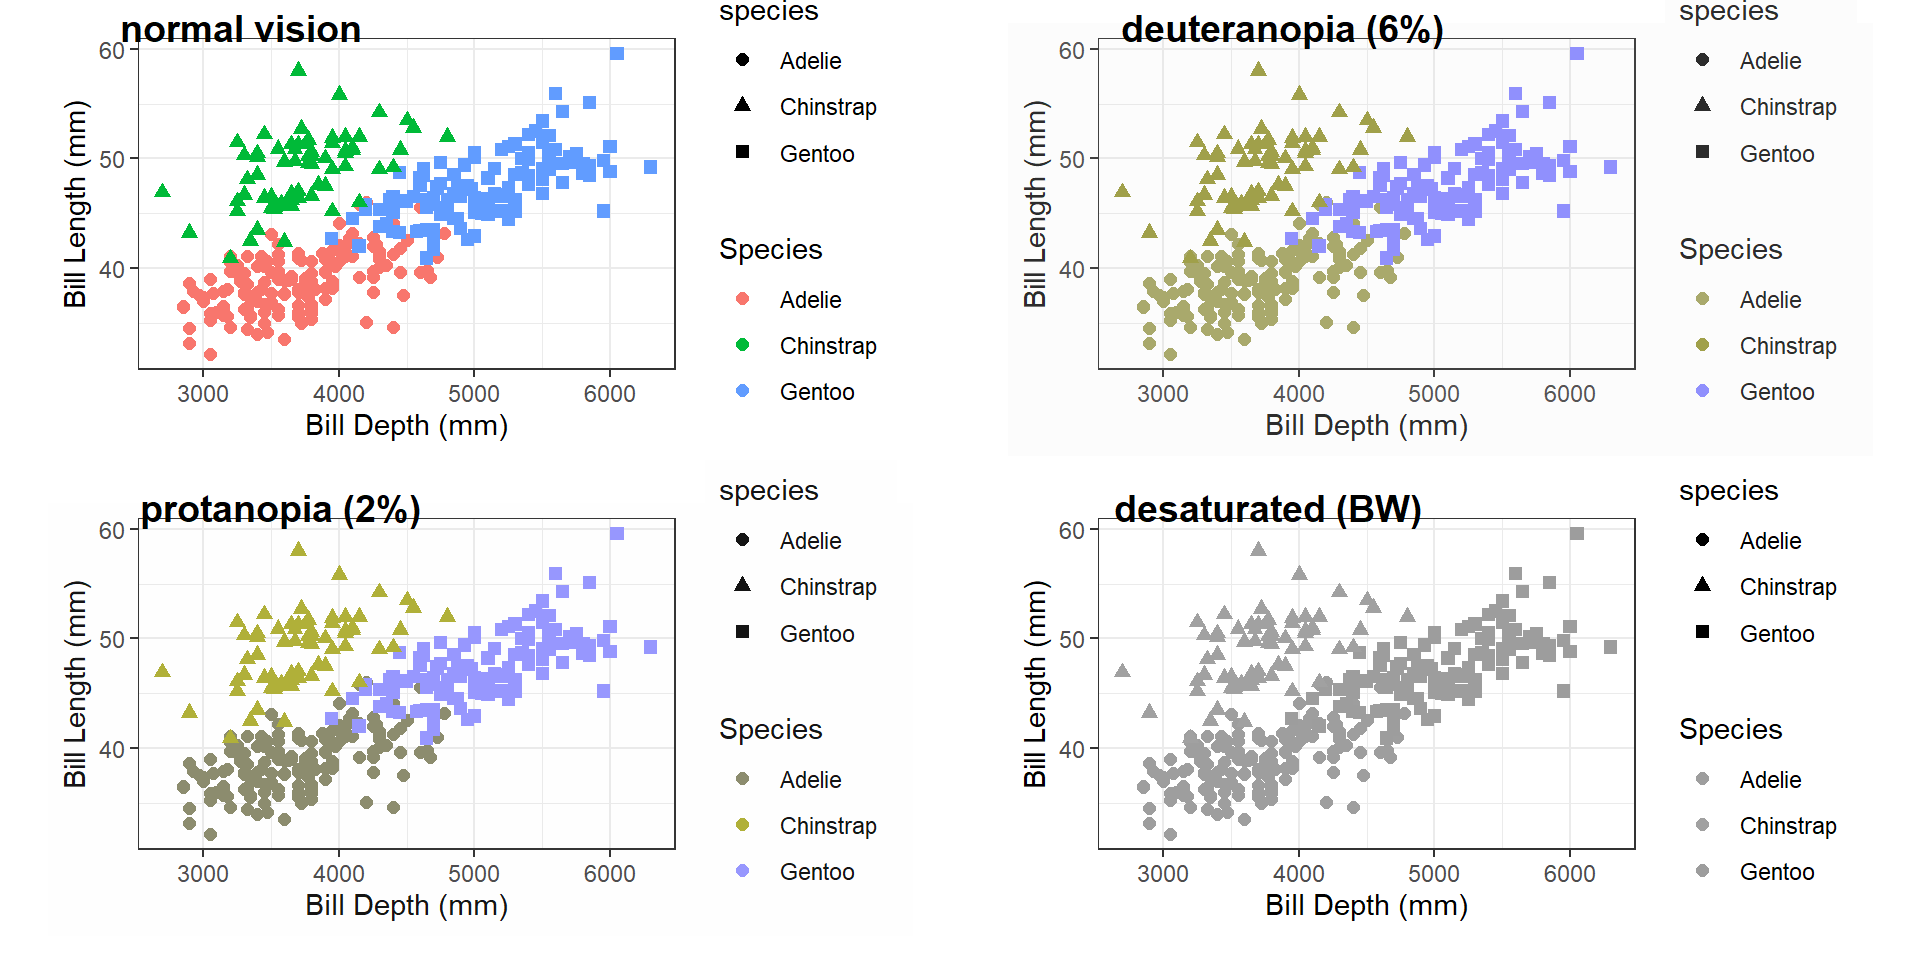
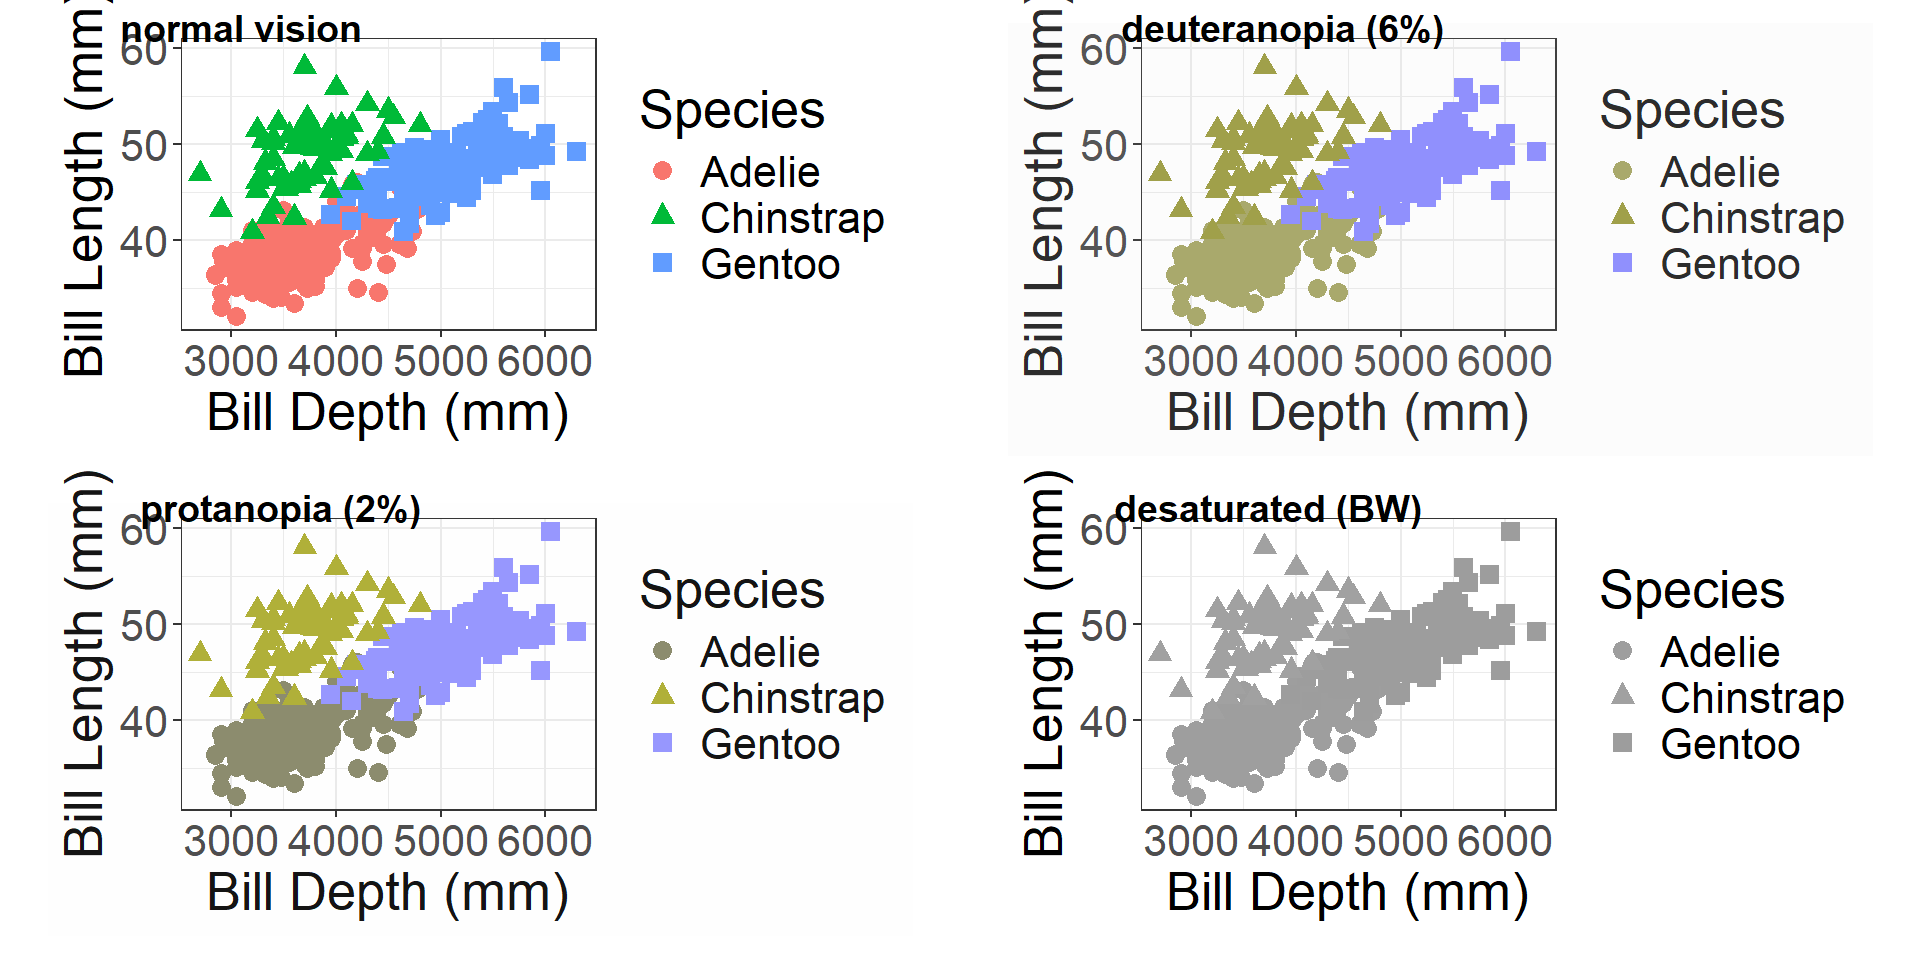
Added shape label and final plot

diff --git a/week-04/lec-04-data-viz-improvements.html b/week-04/lec-04-data-viz-improvements.html
@@ -495,9 +495,11 @@ Medina - CSU Channel Islands
 <span id="cb10-10"><a href="" aria-label="10"></a>  <span class="fu">labs</span>(</span>
 <span id="cb10-11"><a href="" aria-label="11"></a>    <span class="at">x =</span> <span class="st">"Bill Depth (mm)"</span>, </span>
 <span id="cb10-12"><a href="" aria-label="12"></a>    <span class="at">y =</span> <span class="st">"Bill Length (mm)"</span>,</span>
-<span id="cb10-13"><a href="" aria-label="13"></a>    <span class="at">color =</span> <span class="st">"Species"</span></span>
-<span id="cb10-14"><a href="" aria-label="14"></a>  ) <span class="sc">+</span></span>
-<span id="cb10-15"><a href="" aria-label="15"></a>  <span class="fu">geom_point</span>(<span class="at">size =</span> <span class="dv">2</span>) </span></code></pre></div><button title="Copy to Clipboard" class="code-copy-button"><i class="bi"></i></button></div>
+<span id="cb10-13"><a href="" aria-label="13"></a>    <span class="at">color =</span> <span class="st">"Species"</span>,</span>
+<span id="cb10-14"><a href="" aria-label="14"></a>    <span class="at">shape =</span> <span class="st">"Shape"</span></span>
+<span id="cb10-15"><a href="" aria-label="15"></a>  ) <span class="sc">+</span></span>
+<span id="cb10-16"><a href="" aria-label="16"></a>  <span class="fu">theme</span>(<span class="at">text =</span> <span class="fu">element_text</span>(<span class="at">size =</span> <span class="dv">20</span>)) <span class="sc">+</span></span>
+<span id="cb10-17"><a href="" aria-label="17"></a>  <span class="fu">geom_point</span>(<span class="at">size =</span> <span class="dv">3</span>)</span></code></pre></div><button title="Copy to Clipboard" class="code-copy-button"><i class="bi"></i></button></div>
 </div><div class="column">
 <div class="cell-output-display">
 <div>
@@ -522,13 +524,15 @@ Medina - CSU Channel Islands
 <span id="cb11-8"><a href="" aria-label="8"></a>      <span class="at">shape =</span> species</span>
 <span id="cb11-9"><a href="" aria-label="9"></a>    )</span>
 <span id="cb11-10"><a href="" aria-label="10"></a>  ) <span class="sc">+</span></span>
-<span id="cb11-11"><a href="" aria-label="11"></a>  <span class="fu">labs</span>(</span>
-<span id="cb11-12"><a href="" aria-label="12"></a>    <span class="at">x =</span> <span class="st">"Bill Depth (mm)"</span>, </span>
-<span id="cb11-13"><a href="" aria-label="13"></a>    <span class="at">y =</span> <span class="st">"Bill Length (mm)"</span>,</span>
-<span id="cb11-14"><a href="" aria-label="14"></a>    <span class="at">color =</span> <span class="st">"Species"</span></span>
-<span id="cb11-15"><a href="" aria-label="15"></a>  ) <span class="sc">+</span></span>
-<span id="cb11-16"><a href="" aria-label="16"></a>  <span class="fu">geom_point</span>(<span class="at">size =</span> <span class="dv">2</span>) <span class="sc">+</span></span>
-<span id="cb11-17"><a href="" aria-label="17"></a>  <span class="fu">theme_bw</span>()</span></code></pre></div><button title="Copy to Clipboard" class="code-copy-button"><i class="bi"></i></button></div>
+<span id="cb11-11"><a href="" aria-label="11"></a>  <span class="fu">geom_point</span>(<span class="at">size =</span> <span class="dv">3</span>) <span class="sc">+</span></span>
+<span id="cb11-12"><a href="" aria-label="12"></a>  <span class="fu">labs</span>(</span>
+<span id="cb11-13"><a href="" aria-label="13"></a>    <span class="at">x =</span> <span class="st">"Bill Depth (mm)"</span>, </span>
+<span id="cb11-14"><a href="" aria-label="14"></a>    <span class="at">y =</span> <span class="st">"Bill Length (mm)"</span>,</span>
+<span id="cb11-15"><a href="" aria-label="15"></a>    <span class="at">color =</span> <span class="st">"Species"</span>,</span>
+<span id="cb11-16"><a href="" aria-label="16"></a>    <span class="at">shape =</span> <span class="st">"Species"</span></span>
+<span id="cb11-17"><a href="" aria-label="17"></a>  ) <span class="sc">+</span></span>
+<span id="cb11-18"><a href="" aria-label="18"></a>  <span class="fu">theme_bw</span>() <span class="sc">+</span></span>
+<span id="cb11-19"><a href="" aria-label="19"></a>  <span class="fu">theme</span>(<span class="at">text =</span> <span class="fu">element_text</span>(<span class="at">size =</span> <span class="dv">20</span>))</span></code></pre></div><button title="Copy to Clipboard" class="code-copy-button"><i class="bi"></i></button></div>
 </div>
 <div class="fragment">
 <p>By storing the plot as an object named <code>bills_plot</code>, we will be able to use it in other functions.</p>
@@ -678,10 +682,44 @@ Medina - CSU Channel Islands
 <li><p><a href="https://www.cararthompson.com/talks/nhsr2023-level-up-workshop/">Level Up Your Plots: Using colour, annotations, text hiearchy and other tricks to make your data story stand out</a></p></li>
 <li><p><a href="https://evamaerey.github.io/ggplot_flipbook/ggplot_flipbook_xaringan.html#1">the ggplot flipbook</a></p></li>
 </ul>
-
 </div>
 </section>
-    </div>
+
+<section id="our-final-improved-plot" class="title-slide slide level1 center">
+<h1>Our final improved plot</h1>
+<div class="cell">
+<div class="code-copy-outer-scaffold"><div class="sourceCode cell-code" id="cb20"><pre class="sourceCode numberSource r number-lines code-with-copy"><code class="sourceCode r"><span id="cb20-1"><a href="" aria-label="1"></a><span class="fu">ggplot</span>(</span>
+<span id="cb20-2"><a href="" aria-label="2"></a>    penguins, </span>
+<span id="cb20-3"><a href="" aria-label="3"></a>    <span class="fu">aes</span>(</span>
+<span id="cb20-4"><a href="" aria-label="4"></a>      <span class="at">x =</span> body_mass, </span>
+<span id="cb20-5"><a href="" aria-label="5"></a>      <span class="at">y =</span> bill_len, </span>
+<span id="cb20-6"><a href="" aria-label="6"></a>      <span class="at">color =</span> species,</span>
+<span id="cb20-7"><a href="" aria-label="7"></a>      <span class="at">shape =</span> species</span>
+<span id="cb20-8"><a href="" aria-label="8"></a>    )</span>
+<span id="cb20-9"><a href="" aria-label="9"></a>  ) <span class="sc">+</span></span>
+<span id="cb20-10"><a href="" aria-label="10"></a>  <span class="fu">geom_point</span>(<span class="at">size =</span> <span class="dv">3</span>) <span class="sc">+</span></span>
+<span id="cb20-11"><a href="" aria-label="11"></a>  <span class="fu">labs</span>(</span>
+<span id="cb20-12"><a href="" aria-label="12"></a>    <span class="at">x =</span> <span class="st">"Bill Depth (mm)"</span>, </span>
+<span id="cb20-13"><a href="" aria-label="13"></a>    <span class="at">y =</span> <span class="st">"Bill Length (mm)"</span>,</span>
+<span id="cb20-14"><a href="" aria-label="14"></a>    <span class="at">color =</span> <span class="st">"Species"</span>,</span>
+<span id="cb20-15"><a href="" aria-label="15"></a>    <span class="at">shape =</span> <span class="st">"Species"</span>,</span>
+<span id="cb20-16"><a href="" aria-label="16"></a>    <span class="at">alt =</span> <span class="st">"The scatterplot shows bill depth in mm on the x-axis and bill length in mm on the y-axis with three species as Adelie, Chinstrap, and Gentoo distinguished by color of point. The x axis ranges from about 12.5 mm to 22.5 mm. The y-axis ranges from about 30 to 60 mm. For all species the relationship seems moderately positive. When comparing the three species, Adelie penguins seem to have longer bill depth but shorter bill length. Chinstraps have longer bill depth and longer bill length. Gentoo penguins have shorter bill depth and longer bill length."</span></span>
+<span id="cb20-17"><a href="" aria-label="17"></a>  ) <span class="sc">+</span></span>
+<span id="cb20-18"><a href="" aria-label="18"></a>  <span class="fu">theme_bw</span>() <span class="sc">+</span></span>
+<span id="cb20-19"><a href="" aria-label="19"></a>  <span class="fu">theme</span>(<span class="at">text =</span> <span class="fu">element_text</span>(<span class="at">size =</span> <span class="dv">20</span>))</span></code></pre></div><button title="Copy to Clipboard" class="code-copy-button"><i class="bi"></i></button></div>
+</div>
+
+
+</section>
+    <section id="our-final-improved-plot-output" class="title-slide slide level1 output-location-slide center"><h1>Our final improved plot</h1><div class="cell output-location-slide">
+<div class="cell-output-display">
+<div>
+<figure>
+<p><img data-src="lec-04-data-viz-improvements_files/figure-revealjs/unnamed-chunk-22-1.png" width="960"></p>
+</figure>
+</div>
+</div>
+</div></section></div>
   <div class="quarto-auto-generated-content" style="display: none;">
 <div class="footer footer-default">
 
